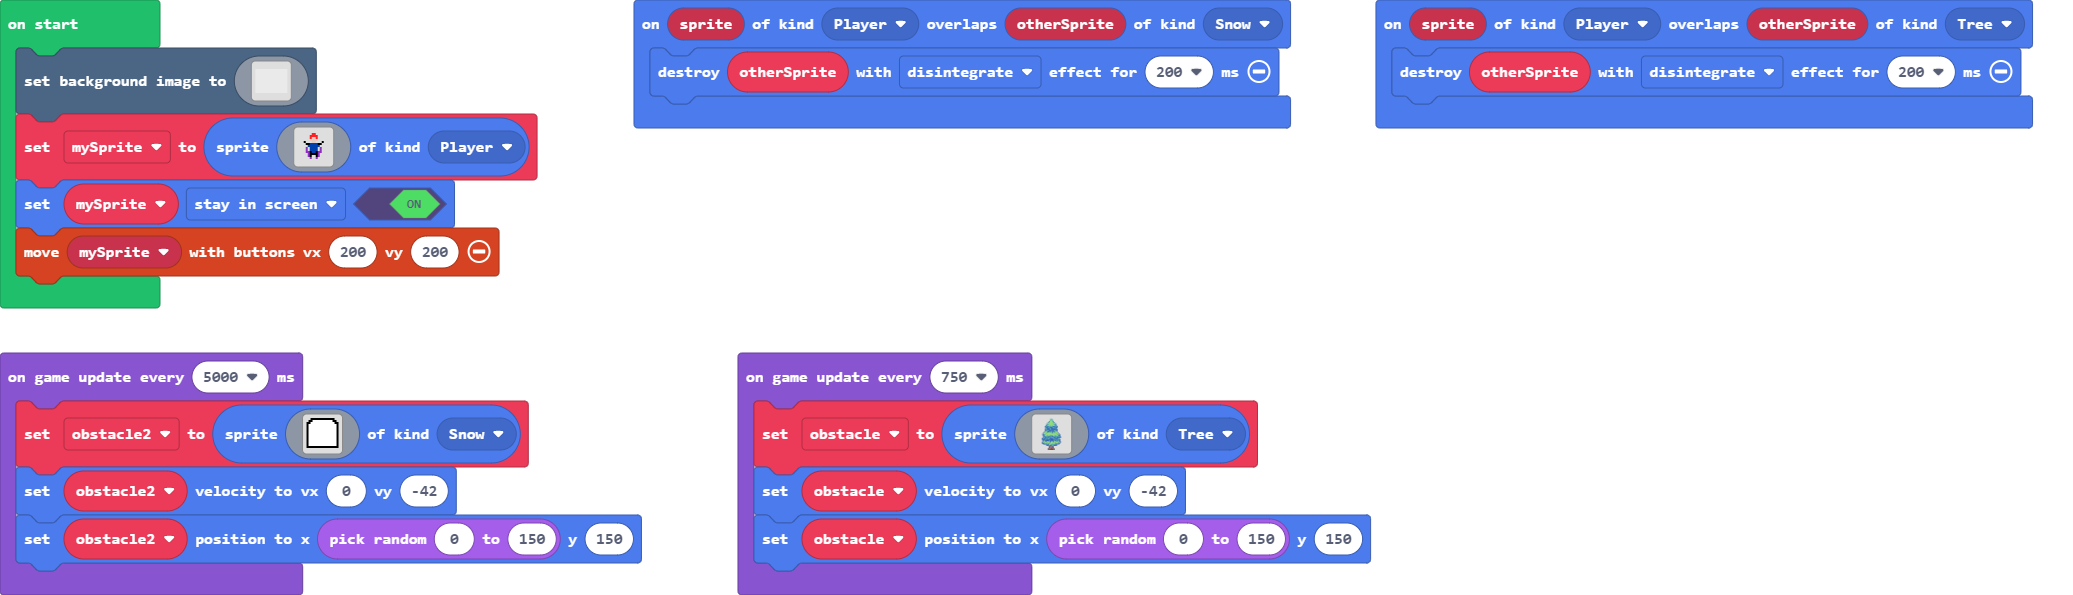
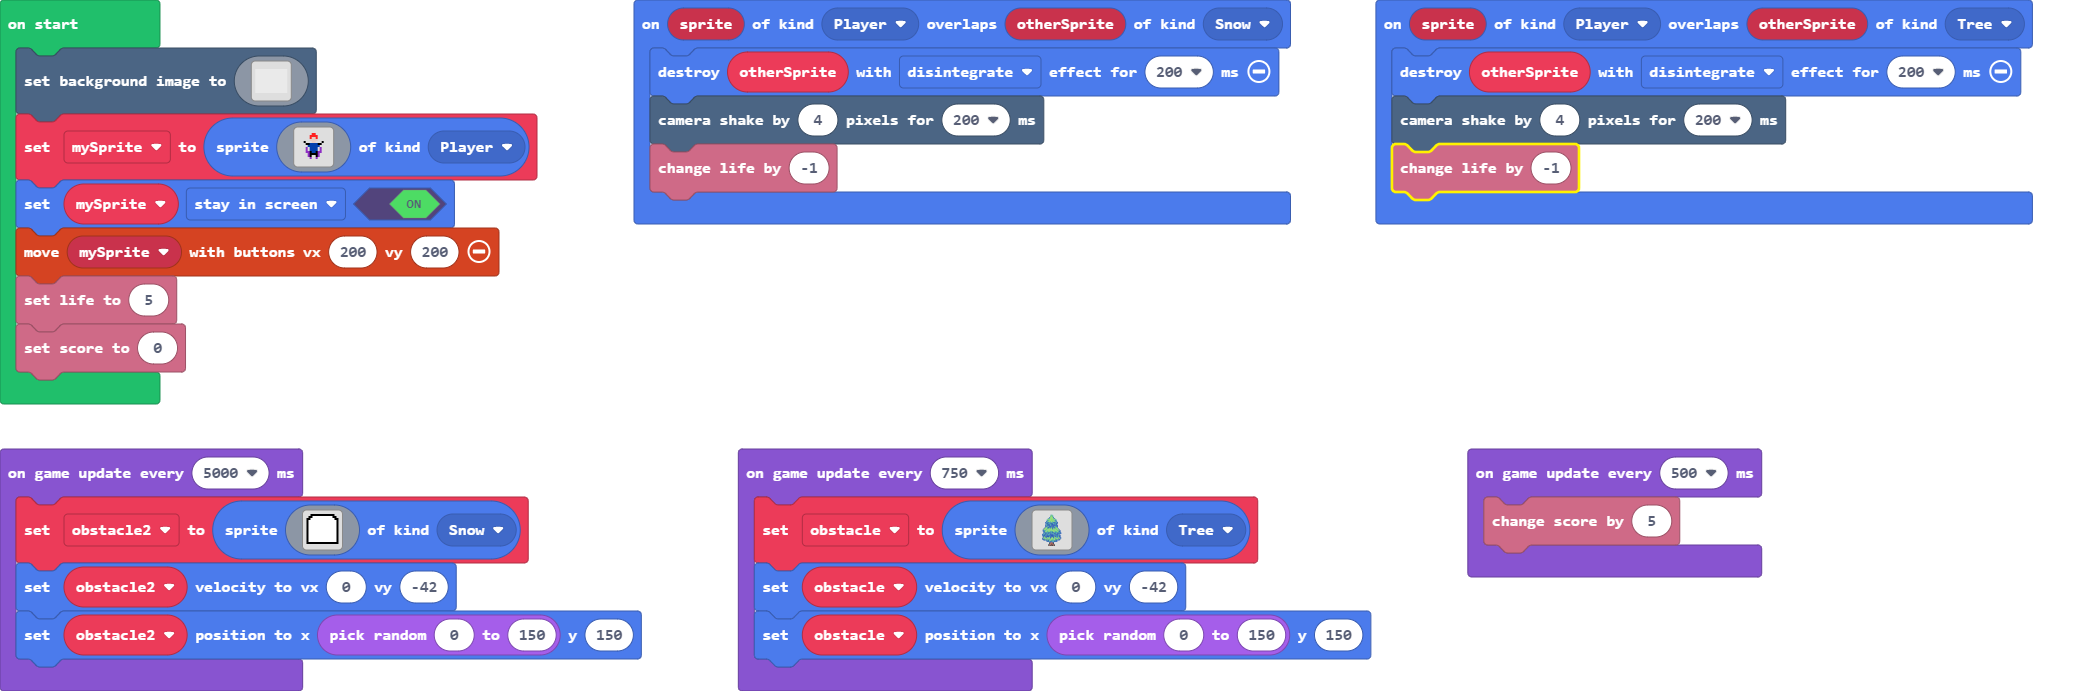
Update main.blocks, main.ts

diff --git a/main.ts b/main.ts
@@ -5,10 +5,12 @@ namespace SpriteKind {
 sprites.onOverlap(SpriteKind.Player, SpriteKind.Snow, function (sprite, otherSprite) {
     otherSprite.destroy(effects.disintegrate, 200)
     scene.cameraShake(4, 200)
+    info.changeLifeBy(-1)
 })
 sprites.onOverlap(SpriteKind.Player, SpriteKind.Tree, function (sprite, otherSprite) {
     otherSprite.destroy(effects.disintegrate, 200)
     scene.cameraShake(4, 200)
+    info.changeLifeBy(-1)
 })
 let obstacle: Sprite = null
 let obstacle2: Sprite = null
